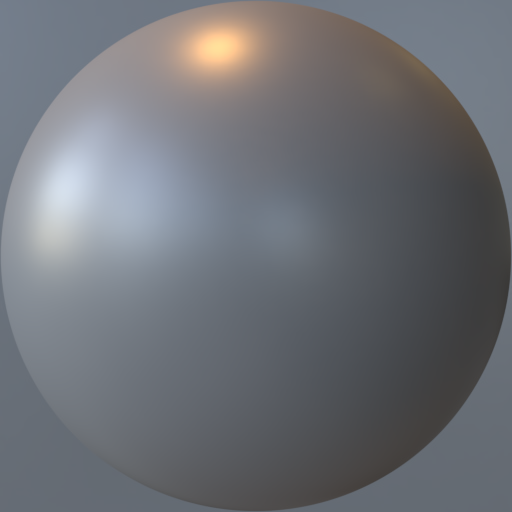
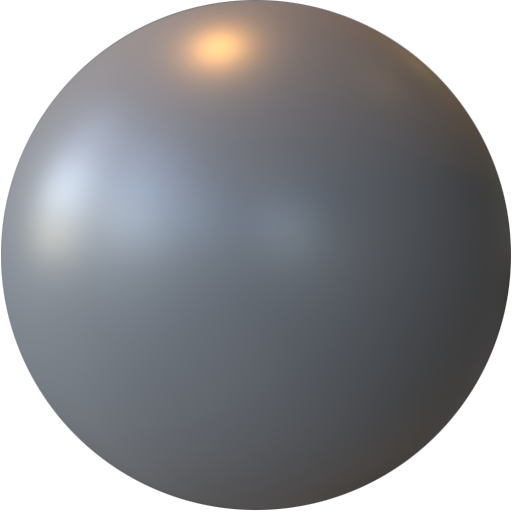
Render mode: new colors in normal mode

Changed region(s): [[0.0, 0.5312, 1.0, 1.0], [0.5625, 0.0, 1.0, 0.4688], [0.0, 0.0, 0.4375, 0.4688]]

diff --git a/src/visual_model/RenderedSceneBuilder.ts b/src/visual_model/RenderedSceneBuilder.ts
@@ -10,9 +10,11 @@ import ceramicDark from '../img/matcap/ceramic_dark.exr';
 import { HasSelectedAndHovered, Selectable } from "../selection/SelectionDatabase";
 import { Theme } from "../startup/ConfigFiles";
 import * as visual from '../visual_model/VisualModel';
+import basic_side from '../img/matcap/basic_side.exr';
 
 type State = { tag: 'none' } | { tag: 'scratch', selection: HasSelectedAndHovered }
-type Mode = 'normal' | 'rendered';
+type Mode = { tag: 'normal', material: THREE.Material } | { tag: 'rendered', material: THREE.Material };
+export type MaterialMode = 'matcap' | 'colored-matcap' | 'colored-silhouette' | 'black-silhouette';
 
 export class RenderedSceneBuilder {
     private readonly disposable = new CompositeDisposable();
@@ -20,11 +22,15 @@ export class RenderedSceneBuilder {
 
     private state: State = { tag: 'none' };
 
-    private _mode: Mode = 'normal';
-    get mode() { return this._mode }
-    set mode(mode: Mode) {
+    private _mode: Mode = { tag: 'normal', material: face_unhighlighted_matcap };
+    get mode(): Readonly<Mode> { return this._mode }
+    set mode(mode: Mode | Mode['tag']) {
         if (this._mode === mode) return;
-        this._mode = mode;
+        if (typeof mode === 'string') {
+            this._mode = { tag: mode, material: this._mode.material }
+        } else {
+            this._mode = mode;
+        }
         this.highlight();
     }
 
@@ -246,6 +252,7 @@ export class RenderedSceneBuilder {
     protected highlightFaces(solid: visual.Solid, override?: THREE.Material) {
         const selection = this.selection.selected;
         const hovering = this.selection.hovered;
+        const particularMaterial = this.scene.getMaterial(solid, true);
         for (const lod of [solid.lod.high, solid.lod.low]) {
             const facegroup = lod.faces;
             let hovered: visual.GeometryGroup[] = [];
@@ -267,9 +274,17 @@ export class RenderedSceneBuilder {
             selected.forEach(s => s.materialIndex = 1);
             unselected.forEach(s => s.materialIndex = 2);
             hovered_phantom.forEach(s => s.materialIndex = 3);
-            facegroup.mesh.material = this._mode === 'normal'
-                ? [face_hovered, face_highlighted, face_unhighlighted, face_hovered_phantom]
-                : [face_hovered, face_highlighted, override ?? this.scene.getMaterial(solid, true) ?? defaultPhysicalMaterial, face_hovered_phantom];
+            if (this.mode.tag === 'normal') {
+                let material = this.mode.material;
+                if ((material === face_unhighlighted_colored_matcap || material === face_unhighlighted_colored_silhouette) && particularMaterial !== undefined) {
+                    const colored = material.clone() as THREE.Material & { color: THREE.Color };
+                    colored.color.set(particularMaterial.color);
+                    material = colored;
+                }
+                facegroup.mesh.material = [face_hovered, face_highlighted, material, face_hovered_phantom]
+            } else {
+                facegroup.mesh.material = [face_hovered, face_highlighted, override ?? particularMaterial ?? defaultPhysicalMaterial, face_hovered_phantom];
+            }
             facegroup.mesh.geometry.groups = [...hovered, ...selected, ...unselected, ...hovered_phantom];
         }
     }
@@ -305,7 +320,7 @@ export class RenderedSceneBuilder {
     }
 
     private setTheme(theme: Theme) {
-        face_unhighlighted.color.setStyle(theme.colors.matcap).convertSRGBToLinear();
+        face_unhighlighted_matcap.color.setStyle(theme.colors.matcap).convertSRGBToLinear();
         face_highlighted.color.setStyle(theme.colors.yellow[200]).convertSRGBToLinear();
         face_hovered.color.setStyle(theme.colors.yellow[500]).convertSRGBToLinear();
         line_unselected.color.setStyle(theme.colors.blue[400]).convertSRGBToLinear();
@@ -314,10 +329,34 @@ export class RenderedSceneBuilder {
         region_unhighlighted.color.setStyle(theme.colors.blue[400]).convertSRGBToLinear();
     }
 
-    setMatcap(name: string) {
+    async setMatcap(name: string): Promise<THREE.Texture> {
         const { texture, loaded } = this.textures.get(name);
-        face_unhighlighted.matcap = texture;
+        face_unhighlighted_matcap.matcap = texture;
+        const mode = this._mode;
+        if (mode.tag === 'normal' && mode.material !== face_unhighlighted_matcap) {
+            mode.material = face_unhighlighted_matcap;
+            this.highlight();
+        }
         return loaded;
+    }
+
+    async setMaterialMode(mmode: MaterialMode) {
+        const mode = this._mode;
+        switch (mode.tag) {
+            case 'normal':
+                switch (mmode) {
+                    case 'matcap': mode.material = face_unhighlighted_matcap; break;
+                    case 'black-silhouette': mode.material = face_unhighlighted_black_silhouette; break;
+                    case 'colored-silhouette': mode.material = face_unhighlighted_colored_silhouette; break;
+                    case 'colored-matcap':
+                        mode.material = face_unhighlighted_colored_matcap;
+                        const { texture, loaded } = this.textures.get(basic_side);
+                        face_unhighlighted_colored_matcap.matcap = texture;
+                        await loaded;
+                        break;
+                }
+                this.highlight();
+        }
     }
 }
 
@@ -334,11 +373,29 @@ line_selected.depthFunc = THREE.AlwaysDepth;
 const line_hovered = new LineMaterial({ color: 0xffffff, linewidth: 2, polygonOffset: true, polygonOffsetFactor: -1, polygonOffsetUnits: -1 });
 line_hovered.depthFunc = THREE.AlwaysDepth;
 
-export const face_unhighlighted = new THREE.MeshMatcapMaterial();
-face_unhighlighted.fog = false;
-face_unhighlighted.polygonOffset = true;
-face_unhighlighted.polygonOffsetFactor = 1;
-face_unhighlighted.polygonOffsetUnits = 2;
+export const face_unhighlighted_matcap = new THREE.MeshMatcapMaterial();
+face_unhighlighted_matcap.fog = false;
+face_unhighlighted_matcap.polygonOffset = true;
+face_unhighlighted_matcap.polygonOffsetFactor = 1;
+face_unhighlighted_matcap.polygonOffsetUnits = 2;
+
+export const face_unhighlighted_black_silhouette = new THREE.MeshBasicMaterial();
+face_unhighlighted_black_silhouette.color = new THREE.Color(0x0);
+face_unhighlighted_black_silhouette.polygonOffset = true;
+face_unhighlighted_black_silhouette.polygonOffsetFactor = 1;
+face_unhighlighted_black_silhouette.polygonOffsetUnits = 2;
+
+export const face_unhighlighted_colored_silhouette = new THREE.MeshBasicMaterial();
+face_unhighlighted_colored_silhouette.color = new THREE.Color(0xffffff);
+face_unhighlighted_colored_silhouette.polygonOffset = true;
+face_unhighlighted_colored_silhouette.polygonOffsetFactor = 1;
+face_unhighlighted_colored_silhouette.polygonOffsetUnits = 2;
+
+export const face_unhighlighted_colored_matcap = new THREE.MeshMatcapMaterial();
+face_unhighlighted_matcap.fog = false;
+face_unhighlighted_matcap.polygonOffset = true;
+face_unhighlighted_matcap.polygonOffsetFactor = 1;
+face_unhighlighted_matcap.polygonOffsetUnits = 2;
 
 const face_highlighted = new THREE.MeshBasicMaterial();
 face_highlighted.fog = false;

diff --git a/src/components/viewport/ViewportHeader.tsx b/src/components/viewport/ViewportHeader.tsx
@@ -10,6 +10,9 @@ import reflection_check_horizontal from '../../img/matcap/reflection_check_horiz
 import reflection_check_horizontal_png from '../../img/matcap/reflection_check_horizontal.png';
 import reflection_check_vertical from '../../img/matcap/reflection_check_vertical.exr';
 import reflection_check_vertical_png from '../../img/matcap/reflection_check_vertical.png';
+import black_silhouette_png from '../../img/matcap/black_silhouette.png';
+import color_silhouette_png from '../../img/matcap/color_silhouette.png';
+import color_matcap_png from '../../img/matcap/color_matcap.png';
 import { SelectionMode } from '../../selection/SelectionModeSet';
 import { ViewportElement } from './Viewport';
 
@@ -154,14 +157,23 @@ export default (editor: Editor) => {
                                         <div class="min-w-60 border-[0.5px] rounded text-neutral-50 bg-neutral-900 border-neutral-800 shadow-black/20 shadow-md">
                                             <ul>
                                                 {!viewport.isRenderMode &&
-                                                    <li>
-                                                        <div class="flex flex-row space-x-1">
-                                                            <img src={ceramic_dark_png} class="block w-16 rounded-l" onClick={e => viewport.matcap = ceramic_dark} />
-                                                            <img src={metal_carpaint_png} class="block w-16" onClick={e => viewport.matcap = metal_carpaint} />
-                                                            <img src={reflection_check_horizontal_png} class="block w-16" onClick={e => viewport.matcap = reflection_check_horizontal} />
-                                                            <img src={reflection_check_vertical_png} class="block w-16 rounded-r" onClick={e => viewport.matcap = reflection_check_vertical} />
-                                                        </div>
-                                                    </li>
+                                                    <>
+                                                        <li>
+                                                            <div class="flex flex-row space-x-1">
+                                                                <img src={ceramic_dark_png} class="block w-16 rounded-l" onClick={e => viewport.matcap = ceramic_dark} />
+                                                                <img src={metal_carpaint_png} class="block w-16" onClick={e => viewport.matcap = metal_carpaint} />
+                                                                <img src={reflection_check_horizontal_png} class="block w-16" onClick={e => viewport.matcap = reflection_check_horizontal} />
+                                                                <img src={reflection_check_vertical_png} class="block w-16 rounded-r" onClick={e => viewport.matcap = reflection_check_vertical} />
+                                                            </div>
+                                                        </li>
+                                                        <li>
+                                                            <div class="flex flex-row space-x-1">
+                                                            <img src={color_matcap_png} class="block w-16 rounded-r" onClick={e => viewport.material = 'colored-matcap'} />
+                                                            <img src={black_silhouette_png} class="block w-16 rounded-r" onClick={e => viewport.material = 'black-silhouette'} />
+                                                            <img src={color_silhouette_png} class="block w-16 rounded-r" onClick={e => viewport.material = 'colored-silhouette'} />
+                                                            </div>
+                                                        </li>
+                                                    </>
                                                 }
 
                                                 <li>

diff --git a/src/editor/MaterialDatabase.ts b/src/editor/MaterialDatabase.ts
@@ -2,7 +2,7 @@ import * as THREE from "three";
 import { LineMaterial } from 'three/examples/jsm/lines/LineMaterial.js';
 import c3d from '../../build/Release/c3d.node';
 import controlPointIcon from '../components/viewport/img/control-point.svg';
-import { face_unhighlighted, region_unhighlighted } from "../visual_model/RenderedSceneBuilder";
+import { face_unhighlighted_matcap, region_unhighlighted } from "../visual_model/RenderedSceneBuilder";
 import { BetterRaycastingPointsMaterial } from "../visual_model/VisualModelRaycasting";
 import { EditorSignals } from "./EditorSignals";
 import { MaterialMemento, MementoOriginator } from "./History";
@@ -17,7 +17,7 @@ export default interface MaterialDatabase extends MementoOriginator<MaterialMeme
     mesh(): THREE.Material;
 
     add(name: string, material: THREE.Material): number;
-    get(id: number): THREE.Material;
+    get(id: number): THREE.Material & { color: THREE.ColorRepresentation };
 }
 
 const previewLine = new LineMaterial({ color: 0x000088, linewidth: 0.7 });
@@ -32,7 +32,7 @@ const point = new BetterRaycastingPointsMaterial({ color: 0x888888 });
 
 const surface = region_unhighlighted;
 
-const mesh = face_unhighlighted;
+const mesh = face_unhighlighted_matcap;
 
 const region = region_unhighlighted;
 
@@ -85,7 +85,7 @@ export class BasicMaterialDatabase implements MaterialDatabase, MementoOriginato
         return id;
     }
 
-    get(id: number): THREE.Material {
+    get(id: number): THREE.Material & { color: THREE.ColorRepresentation } {
         return this.materials.get(id)!.material;
     }
 

diff --git a/src/components/viewport/Viewport.tsx b/src/components/viewport/Viewport.tsx
@@ -18,7 +18,7 @@ import * as selector from '../../selection/ViewportSelector';
 import { ViewportSelector } from '../../selection/ViewportSelector';
 import { Theme } from "../../startup/ConfigFiles";
 import { Helper, Helpers } from "../../util/Helpers";
-import { RenderedSceneBuilder } from "../../visual_model/RenderedSceneBuilder";
+import { MaterialMode, RenderedSceneBuilder } from "../../visual_model/RenderedSceneBuilder";
 import * as visual from '../../visual_model/VisualModel';
 import { Pane } from '../pane/Pane';
 import { ConstructionPlaneGenerator } from "./ConstructionPlaneGenerator";
@@ -515,7 +515,13 @@ export class Viewport implements MementoOriginator<ViewportMemento> {
         });
     }
 
-    get isRenderMode() { return this.editor.highlighter.mode === 'rendered' }
+    set material(mode: MaterialMode) {
+        this.editor.highlighter.setMaterialMode(mode).then(() => {
+            this.setNeedsRender();
+        })
+    }
+
+    get isRenderMode() { return this.editor.highlighter.mode.tag === 'rendered' }
     set isRenderMode(isRenderMode: boolean) {
         if (this.isRenderMode === isRenderMode) return;
         this.editor.highlighter.mode = isRenderMode ? 'rendered' : 'normal';

diff --git a/src/components/outliner/OutlinerItems.tsx b/src/components/outliner/OutlinerItems.tsx
@@ -88,7 +88,7 @@ export default (editor: Editor) => {
                             <plasticity-icon key={!hidden} name={!hidden ? 'eye' : 'eye-off'}></plasticity-icon>
                         </button>
                         <button
-                            class={`px-1 rounded group ${isSelected ? 'text-accent-300 hover:text-accent-100' : `text-neutral-300 hover:text-neutral-100`} ${!visible ? '' : anySettingsForThisSpecificItem ? `group-hover:visible invisible` : `group-hover:block hidden`}`}
+                            class={`px-1 rounded group ${isSelected ? 'text-accent-300 hover:text-accent-100' : `text-  neutral-300 hover:text-neutral-100`} ${!visible ? '' : anySettingsForThisSpecificItem ? `group-hover:visible invisible` : `group-hover:block hidden`}`}
                             onClick={e => this.setVisibility(e, !visible)}
                         >
                             <plasticity-tooltip placement="top">Disable in viewport</plasticity-tooltip>

diff --git a/src/editor/Scene.ts b/src/editor/Scene.ts
@@ -206,7 +206,7 @@ export class Scene implements MementoOriginator<SceneMemento> {
     list(group: Group): GroupListing[] { return this.groups.list(group) }
     walk(group: Group): GroupListing[] { return this.groups.walk(group) }
 
-    getMaterial(node: RealNodeItem, walk = false): THREE.Material | undefined {
+    getMaterial(node: RealNodeItem, walk = false): THREE.Material & { color: THREE.ColorRepresentation } | undefined {
         const thisMaterial = this.nodes.getMaterial(node);
         if (!walk || thisMaterial) return thisMaterial;
         let parent = this.parent(node);

diff --git a/src/editor/Nodes.ts b/src/editor/Nodes.ts
@@ -150,7 +150,7 @@ export class Nodes implements MementoOriginator<NodeMemento> {
         this.signals.itemMaterialChanged.dispatch(item);
     }
 
-    getMaterial(item: RealNodeItem): THREE.Material | undefined {
+    getMaterial(item: RealNodeItem): THREE.Material & { color: THREE.ColorRepresentation } | undefined {
         const { node2material: version2material } = this;
         const k = this.item2key(item);
         const materialId = version2material.get(k);
